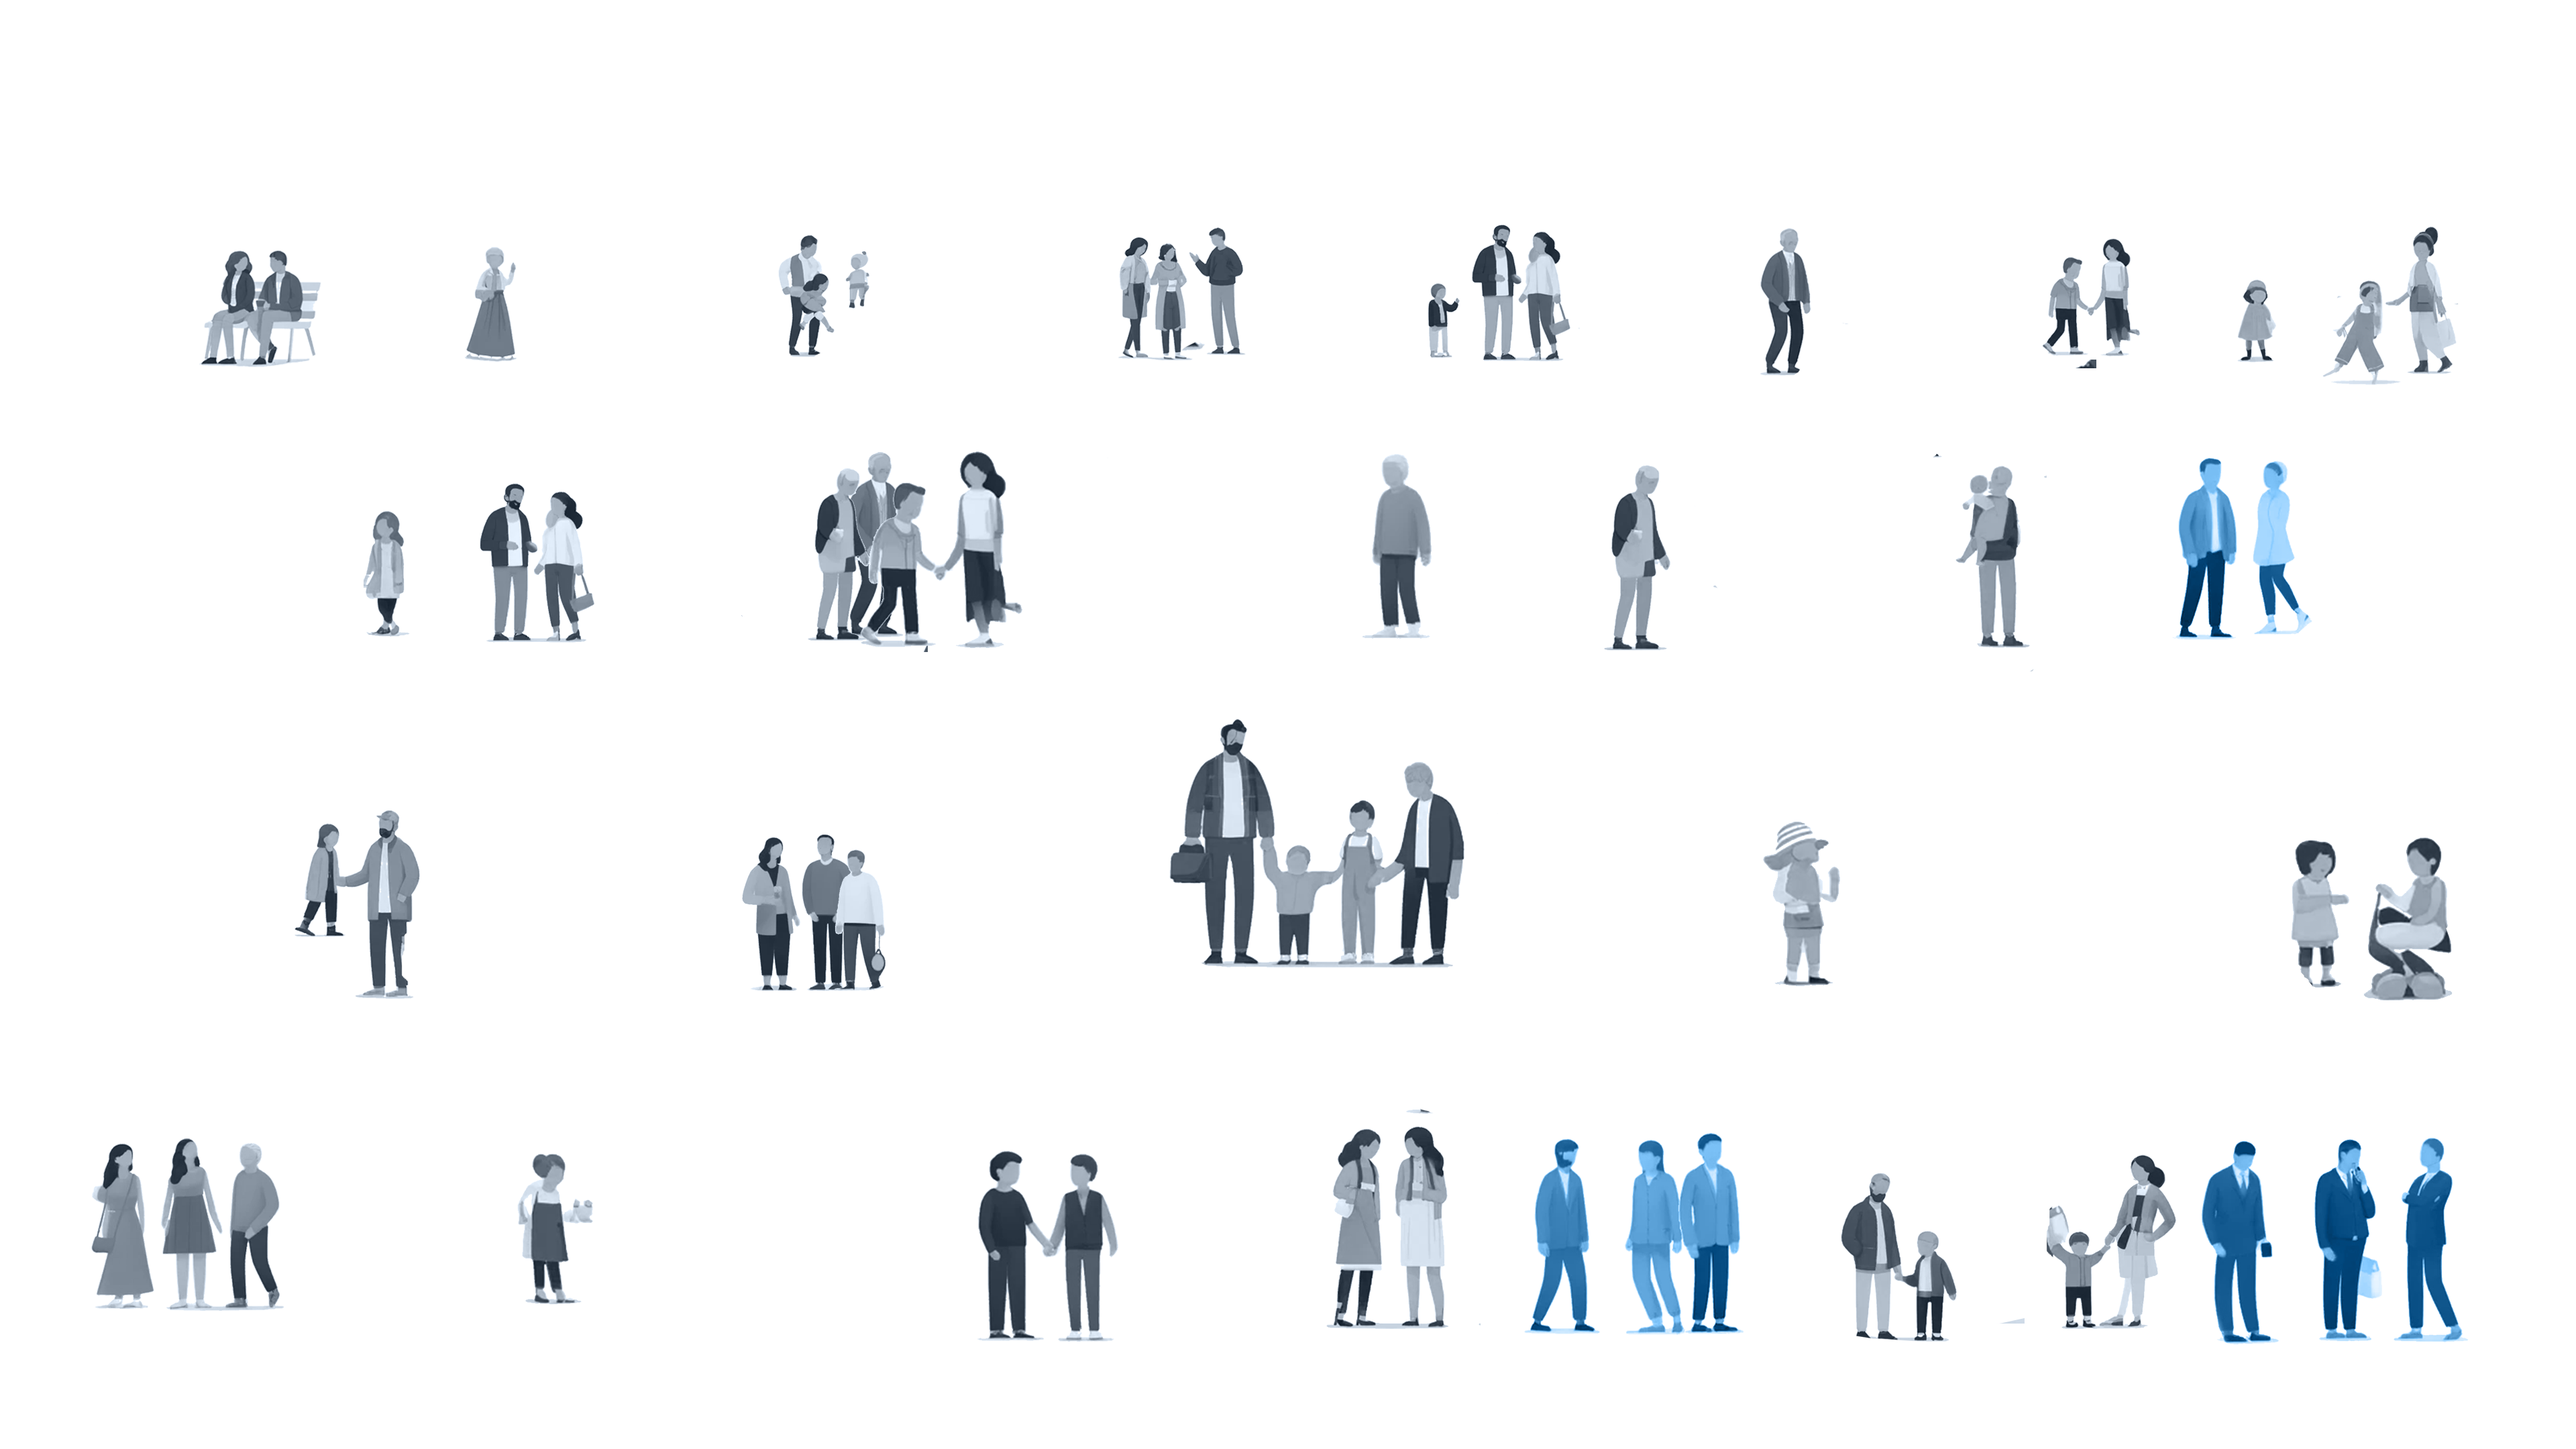
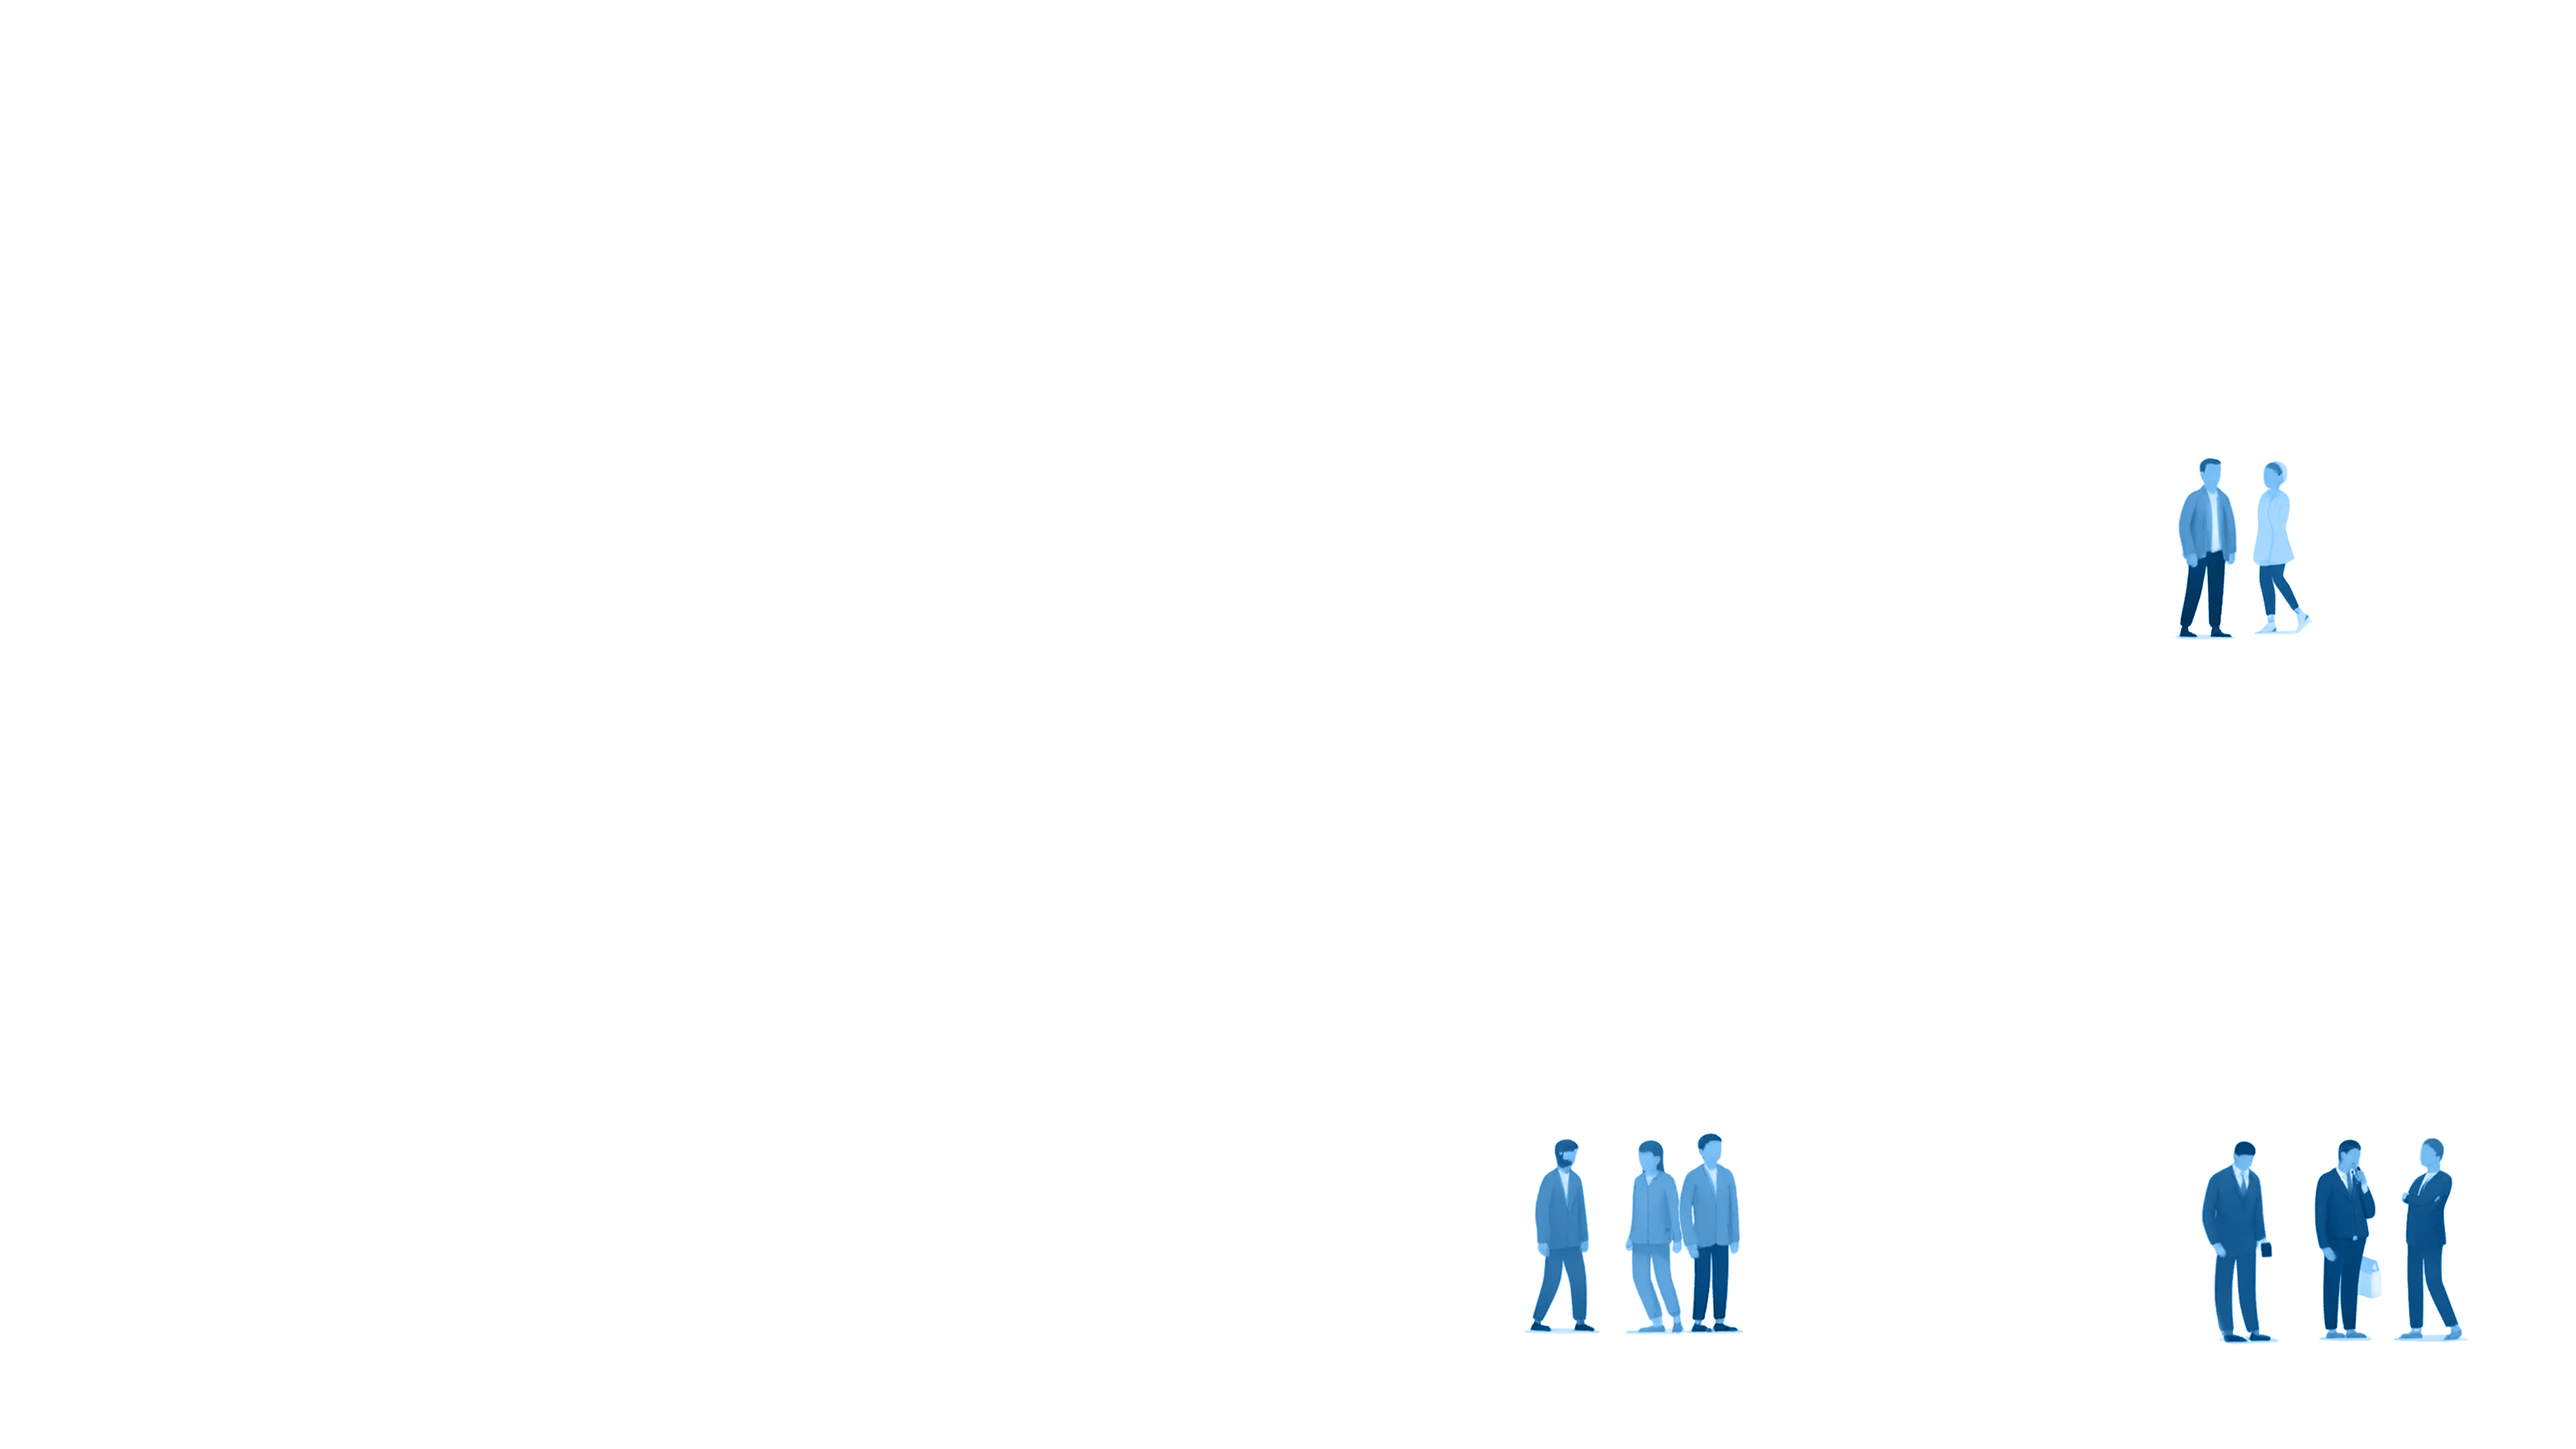
Add investor activity visual

diff --git a/src/routes/+page.svelte b/src/routes/+page.svelte
@@ -54,11 +54,6 @@
 	}
   }
 
-  let taxGroupTran = createUpDownTransition(20, 50, 70, 90);
-  $: alphaBg = 1 - taxGroupTran(progressTax);
-  $: opacityBg = 0.3 * alphaBg;
-  $: opacityTaxGroup = taxGroupTran(progressTax);
-
   // Questions
   let peopleColorPhase1Tran = createUpDownTransition(10, 60, 80, 90);
   let peopleColorPhase2Tran = createUpDownTransition(60, 70, 80, 90);
@@ -73,10 +68,33 @@
   $: opacityTim = timTran(progressTim);
 
   // Investors and Joe
-  let peopleBlueTran = createUpDownTransition(0, 5, 20, 30);
+  let peopleBlueTran = createUpDownTransition(0, 5, 15, 20);
   $: opacityPeopleBlue = peopleBlueTran(progressJoe)
-  let joeTran = createUpDownTransition(25, 35, 90, 100);
+  let joeTran = createUpDownTransition(20, 25, 90, 100);
   $: opacityJoe = joeTran(progressJoe);
+  let joeBgTran = createUpTransition(60, 70);
+  $: opacityJoeBg = progressJoe <= 60 ? opacityJoe : 1 - joeBgTran(progressJoe);
+
+  // Housing market
+  let marketTran = createUpDownTransition(60, 70, 95, 100);
+  $: opacityMarket = marketTran(progressJoe);
+
+  // Tax group
+  let taxGroupTran = createUpDownTransition(20, 50, 70, 90);
+  $: opacityTaxGroup = taxGroupTran(progressTax);
+
+  // Backgroud
+  $: alphaBg = 1 - opacityTaxGroup - opacityMarket;
+  $: opacityBg = 0.3 * alphaBg;
+
+  let zidxBg = 1;
+  $: {
+	if (70 <= progressJoe && progressJoe < 100) {
+	  zidxBg = 0;
+	} else {
+	  zidxBg = 1;
+	}
+  }
 
   // color
   let colortim = "#CF1F3F";
@@ -89,22 +107,22 @@
 </script>
 
 <div style="position: fixed; top: 0%; left: 0%; width: 100vw; height: 100vh;
-			opacity: {opacityBg}; z-index: 1;">
+			opacity: {opacityBg}; z-index: {zidxBg};">
   <img src="/houses-dark.png" alt="houses-bg">
 </div>
 
 <div style="position: fixed; top: 0%; left: 0%; width: 100vw; height: 100vh;
-			opacity: {opacityPeopleColor}; z-index: 1;">
+			opacity: {opacityPeopleColor}; z-index: {zidxBg};">
   <img src="/people.png" alt="people-bg">
 </div>
 
 <div style="position: fixed; top: 0%; left: 0%; width: 100vw; height: 100vh;
-			opacity: {opacityPeopleRed}; z-index: 1;">
+			opacity: {opacityPeopleRed}; z-index: {zidxBg};">
   <img src="/people-red.png" alt="people-red-bg">
 </div>
 
 <div style="position: fixed; top: 0%; left: 0%; width: 100vw; height: 100vh;
-			opacity: {opacityTim}; z-index: 1;">
+			opacity: {opacityTim}; z-index: {zidxBg};">
   <div style="position: absolute; height: 60%; bottom: 16%; left: 10%;">
 	<img src="/tim-bg.png" style="object-fit: contain;" alt="tim-bg">
   </div>
@@ -114,15 +132,19 @@
 </div>
 
 <div style="position: fixed; top: 0%; left: 0%; width: 100vw; height: 100vh;
-			opacity: {opacityPeopleBlue}; z-index: 1;">
+			opacity: {opacityPeopleBlue}; z-index: {zidxBg};">
   <img src="/people-blue.png" alt="people-blue-bg">
 </div>
 
 <div style="position: fixed; top: 0%; left: 0%; width: 100vw; height: 100vh;
-			opacity: {opacityJoe}; z-index: 1;">
+			opacity: {opacityJoeBg}; z-index: {zidxBg};">
   <div style="position: absolute; height: 60%; bottom: 16%; right: 15%;">
 	<img src="/joe-bg.png" style="object-fit: contain;" alt="joe-bg">
   </div>
+</div>
+
+<div style="position: fixed; top: 0%; left: 0%; width: 100vw; height: 100vh;
+			opacity: {opacityJoe}; z-index: {zidxBg};">
   <div style="position: absolute; height: 60%; bottom: 20%; right: 10%;">
 	<img src="/joe.png" style="object-fit: contain;" alt="joe">
   </div>
@@ -224,7 +246,7 @@
   </Scrolly>
 
   <!-- Joe -->
-  <Scrolly bind:progress={progressJoe} threshold={1} margin={0} --scrolly-layout="overlap" >
+  <Scrolly bind:progress={progressJoe} threshold={0.95} margin={innerHeight * 0.05} --scrolly-layout="overlap" >
 	<div style="height: 100vh;" />
 	<div class="relpage" style="height: 80vh;">
 	  <div style="position: absolute; width: 45%; height: 34%; top: 0%; left: 5%;
@@ -245,9 +267,29 @@
 		<img src="/single-family.png" style="object-fit: contain;" alt="single-family">
 	  </div>
 	</div>
-	<div style="height: 100vh;" />
-  </Scrolly>
+	<div style="height: 300vh;" />
 
+	<!-- Interactive visualization: Housing market and investor activity -->
+	<svelte:fragment slot="viz">
+	  <div class="text-dark" style="opacity: {opacityMarket};">
+		<div style="position: absolute; height: 50%; width: 50%; left: 25%;">
+		  <InvestorActivity phase={1} {colortim} {colorjoe} />
+		</div>
+		<div style="position: absolute; height: 30%; width: 40%; right: 5%; bottom: 10%;">
+		  <PriceHistogram color={colorjoe} seldata={seldatap} invsel={invselp} />
+		</div>
+		<div style="position: absolute; height: 30%; width: 20%; right: 0%; bottom: 20%;">
+		  <InvestorPie id={0} color={colorjoe} data={seldatap} invsel={invselp} />
+		</div>
+		<div style="position: absolute; height: 30%; width: 40%; left: 5%; bottom: 10%;">
+		  <PriceHistogram color={colortim} seldata={seldataq} invsel={invselq} />
+		</div>
+		<div style="position: absolute; height: 30%; width: 20%; left: 30%; bottom: 20%;">
+		  <InvestorPie id={1} color={colortim} data={seldataq} invsel={invselq} />
+		</div>
+	  </div>
+	</svelte:fragment>
+  </Scrolly>
 
   <Scrolly bind:progress={progressTax} threshold={0.9} margin={innerHeight * 0.1} --scrolly-layout="overlap" >
 	<!-- Key result: Non-investors paying too much fee -->
@@ -277,17 +319,10 @@
 	</div>
 
 	<!-- Interactive visualization: Tax group breakdown -->
-	<div style="height: 300vh;">
-	</div>
+	<div style="height: 300vh;" />
 	<svelte:fragment slot="viz">
 	  <div class="text-dark" style="position: relative; height: 80vh; opacity: {opacityTaxGroup};">
-		<TaxGroup {colortim} {colorjoe} showtool={false} />
-		<!-- <div style="position: absolute; height: 40%; bottom: 10%; left: 12%;"> -->
-		  <!--   <img src="/tim.png" style="object-fit: contain;" alt="tim"> -->
-		  <!-- </div> -->
-		<!-- <div style="position: absolute; height: 40%; bottom: 10%; left: 63%;"> -->
-		  <!--   <img src="/joe.png" style="object-fit: contain;" alt="joe"> -->
-		  <!-- </div> -->
+		<TaxGroup {colortim} {colorjoe} showtool={true} />
 	  </div>
 	</svelte:fragment>
   </Scrolly>
@@ -302,6 +337,9 @@
   	Balancing the interests of multiple parties is very complex and faces
 	many risks. With this tool, we hope that Boston's housing market can
 	gradually move towards a more harmonious and fair state.
+  </div>
+  <div class="flexpage textbox" style="font-size: 45px;">
+  	Credit (TODO): 6.C85 staffs, MAPC, and Warren Group.
   </div>
 
   <div style="height: 50%;" />

diff --git a/src/routes/price-histogram.svelte b/src/routes/price-histogram.svelte
@@ -106,8 +106,8 @@
 
   $: d3.select(histp)
   .select('text.mediantext')
-  .style('stroke', 'white')
-  .style('fill', 'white')
+  .style('stroke', 'black')
+  .style('fill', 'black')
   .style('font-size', `${width * 0.03}px`)
   .transition()
   .duration(300)
@@ -158,7 +158,7 @@
 	stroke-dasharray: 3, 1;
 	stroke-opacity: 0.8;
 	stroke-width: 2px;
-	stroke: white;
+	stroke: black;
   }
   .bars {
 	stroke-opacity: 0.1;

diff --git a/src/routes/investor-activity.svelte b/src/routes/investor-activity.svelte
@@ -33,7 +33,7 @@
 
   $: xScale = d3.scaleLinear()
   // .domain([0, d3.max(data, d => d.price)])
-  .domain([0, 4000000]).nice()
+  .domain([0, 6000000]).nice()
   .range([margin.left, width - margin.right])
   .clamp(true);
 
